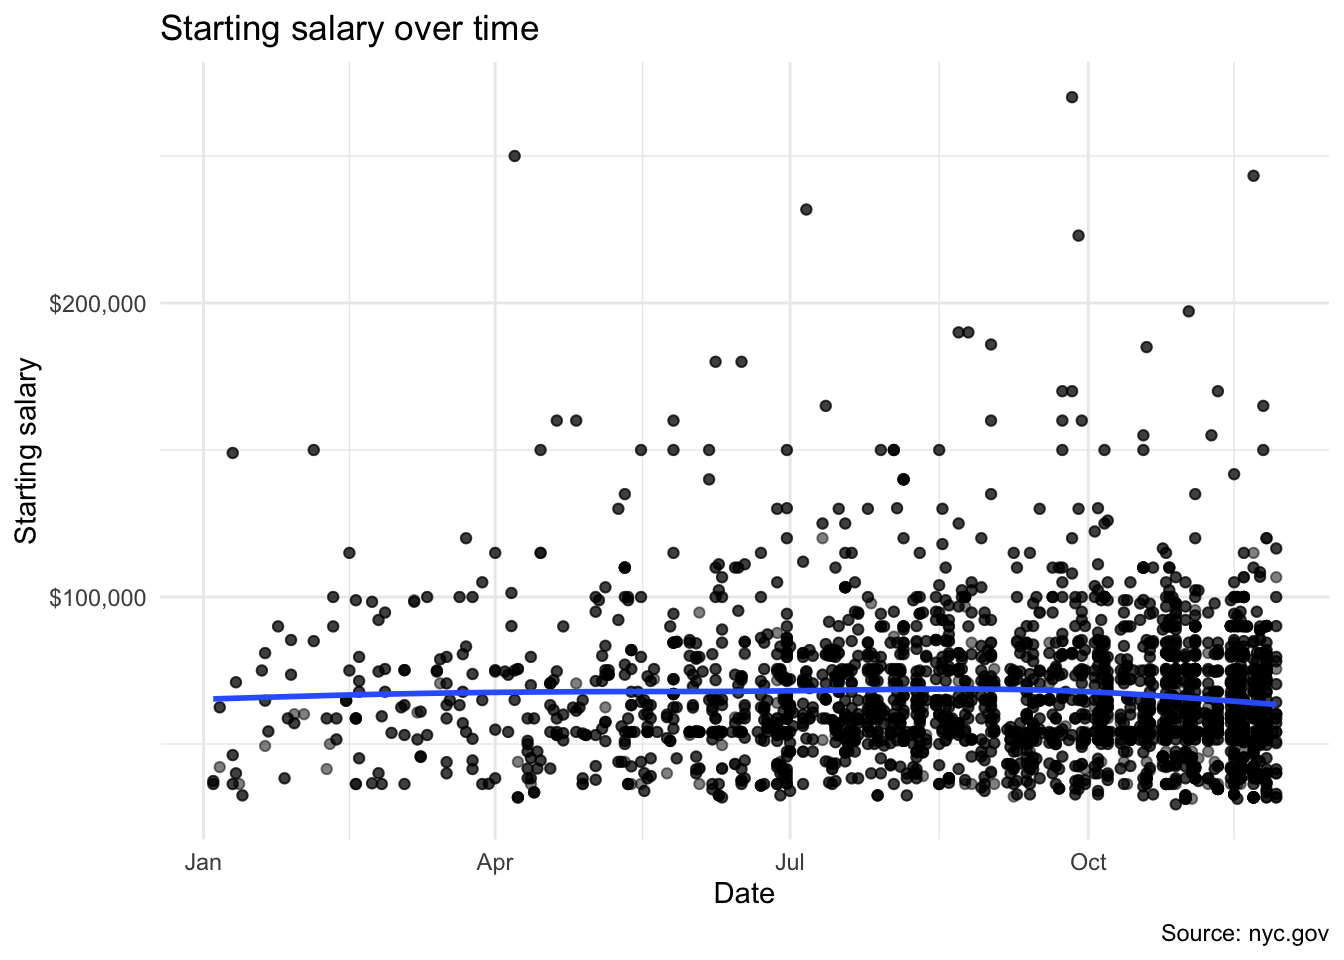
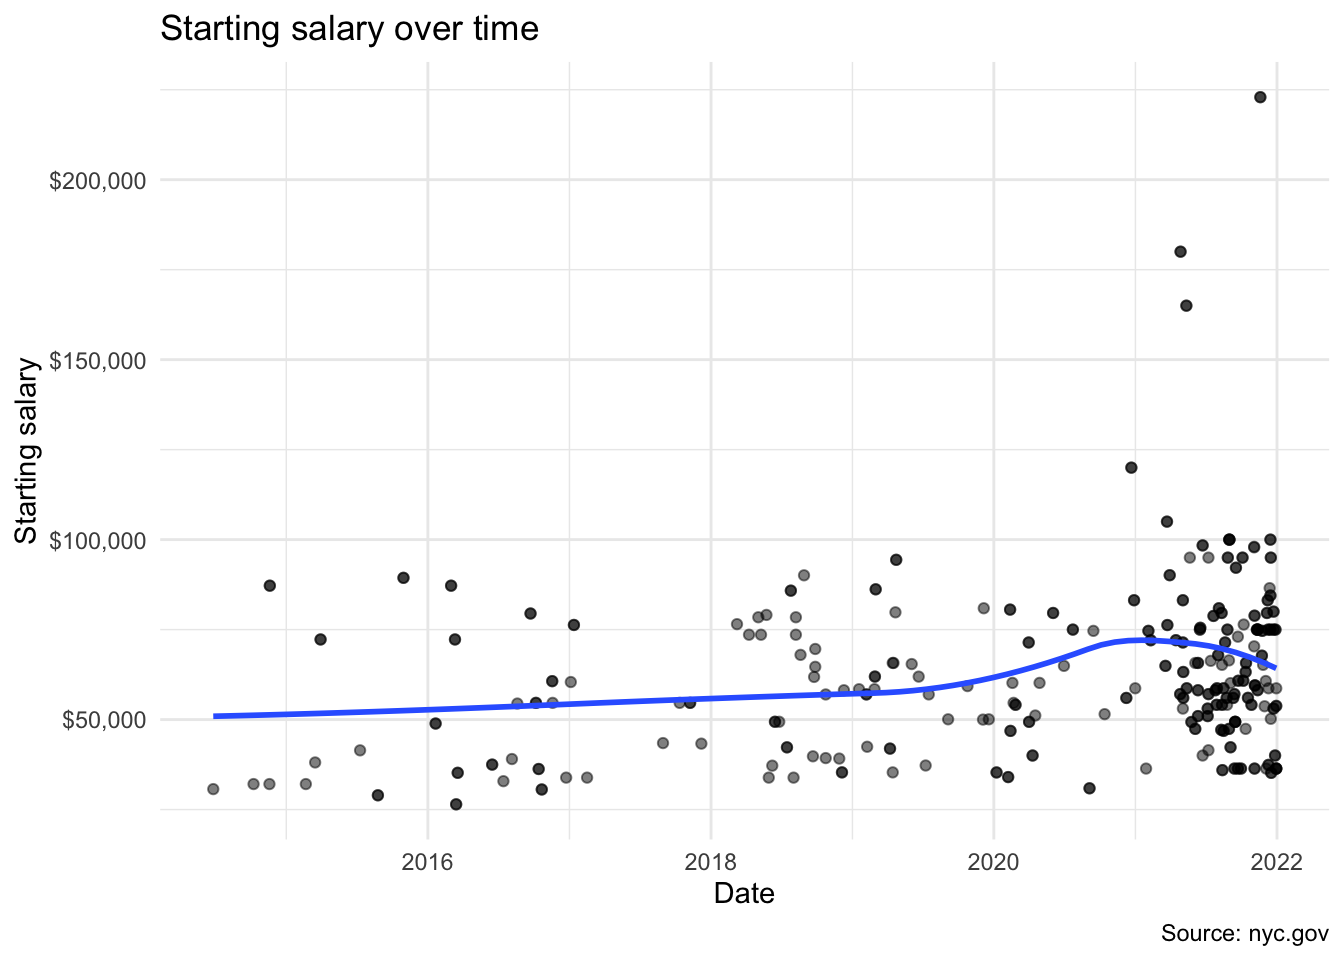
added career level plot

diff --git a/docs/results.html b/docs/results.html
@@ -122,13 +122,36 @@
 <p>Next we looked at the salary ranges of the different posting agencies.</p>
 <p><img src="finalproj_files/figure-html/plot3-1.png" width="672" /></p>
 <p>The Municipal Water Fin Authority posted jobs with the highest average salary potential, at around 140k USD. The Business Integrity Commission posted jobs with the lowest average salary potential, around 55k USD.</p>
+<p>Next we looked into how a job’s career level impacted its salary.</p>
+<p><img src="finalproj_files/figure-html/unnamed-chunk-3-1.png" width="672" />
+The data shows that executives make the most on average and entry-level positions make the least. This trend makes sense with what we know about career levels.</p>
 <p>Next we looked into how a job’s level impacted its salary. We split the level into three categories based on the code given to the level.</p>
-<p><img src="finalproj_files/figure-html/unnamed-chunk-3-1.png" width="672" /></p>
+<p><img src="finalproj_files/figure-html/unnamed-chunk-4-1.png" width="672" /></p>
 <p>The levels that started with M had the highest average salary potentials, while the levels that started with numbers tended to be associated with lower average salary potentials. The level with the highest average salary potential is MY. In fact, the lower end of the salary range is higher than the higher end of any other level’s average salary range.</p>
 <p>After looking at the different factors that influenced salary range, we wanted to see if the salaries of jobs posted changed over time. In order to do so, we only looked at the lower end of the salary ranges for each job posted in our data set.</p>
-<p><img src="finalproj_files/figure-html/unnamed-chunk-4-1.png" width="672" /></p>
 <p><img src="finalproj_files/figure-html/unnamed-chunk-5-1.png" width="672" /></p>
+<p><img src="finalproj_files/figure-html/unnamed-chunk-6-1.png" width="672" /></p>
 <p>While there does not appear to be a huge change over time, job salaries seemed to peak around 2021. When focusing on 2022, it seems as though salaries peaked around August.</p>
+<pre><code>## # A tibble: 5,630 × 33
+##    job_id agency   posti…¹ numbe…² busin…³ civil…⁴ title…⁵ title…⁶ level job_c…⁷
+##     &lt;dbl&gt; &lt;chr&gt;    &lt;chr&gt;     &lt;dbl&gt; &lt;chr&gt;   &lt;chr&gt;   &lt;chr&gt;   &lt;chr&gt;   &lt;chr&gt; &lt;chr&gt;  
+##  1 552809 OFFICE … Intern…       1 Deputy… DIRECT… Non-Co… 95612   MY    Financ…
+##  2 552809 OFFICE … Extern…       1 Deputy… DIRECT… Non-Co… 95612   MY    Financ…
+##  3 527960 OFFICE … Intern…       1 Head, … DIRECT… Non-Co… 95612   MY    Financ…
+##  4 527960 OFFICE … Extern…       1 Head, … DIRECT… Non-Co… 95612   MY    Financ…
+##  5 549704 FIRE DE… Intern…       1 First … FIRST … Exempt… 13003   M8    Commun…
+##  6 562664 DEPARTM… Extern…       1 Genera… EXECUT… Non-Co… 95005   M8    Legal …
+##  7 562664 DEPARTM… Intern…       1 Genera… EXECUT… Non-Co… 95005   M8    Legal …
+##  8 549704 FIRE DE… Extern…       1 First … FIRST … Exempt… 13003   M8    Commun…
+##  9 561950 LAW DEP… Intern…       1 FIRST … FIRST … Exempt… 30140   M8    Legal …
+## 10 561950 LAW DEP… Extern…       1 FIRST … FIRST … Exempt… 30140   M8    Legal …
+## # … with 5,620 more rows, 23 more variables:
+## #   full_time_part_time_indicator &lt;chr&gt;, career_level &lt;chr&gt;,
+## #   salary_range_from &lt;dbl&gt;, salary_range_to &lt;dbl&gt;, salary_frequency &lt;chr&gt;,
+## #   work_location &lt;chr&gt;, division_work_unit &lt;chr&gt;, job_description &lt;chr&gt;,
+## #   minimum_qual_requirements &lt;chr&gt;, preferred_skills &lt;chr&gt;,
+## #   additional_information &lt;chr&gt;, to_apply &lt;chr&gt;, hours_shift &lt;chr&gt;,
+## #   work_location_1 &lt;chr&gt;, recruitment_contact &lt;lgl&gt;, …</code></pre>
 
 </div>
 </div>
